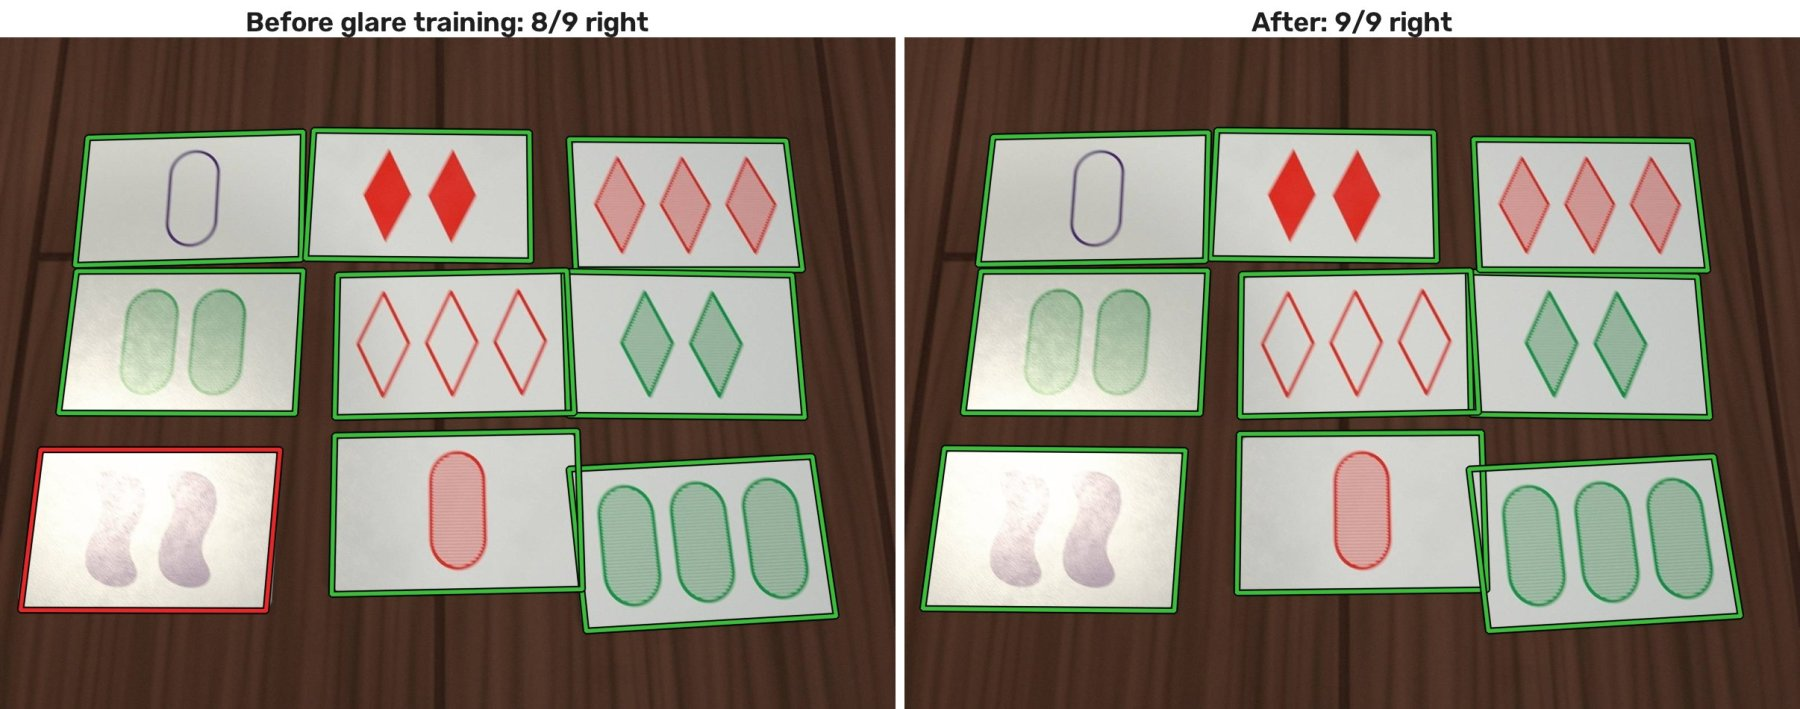
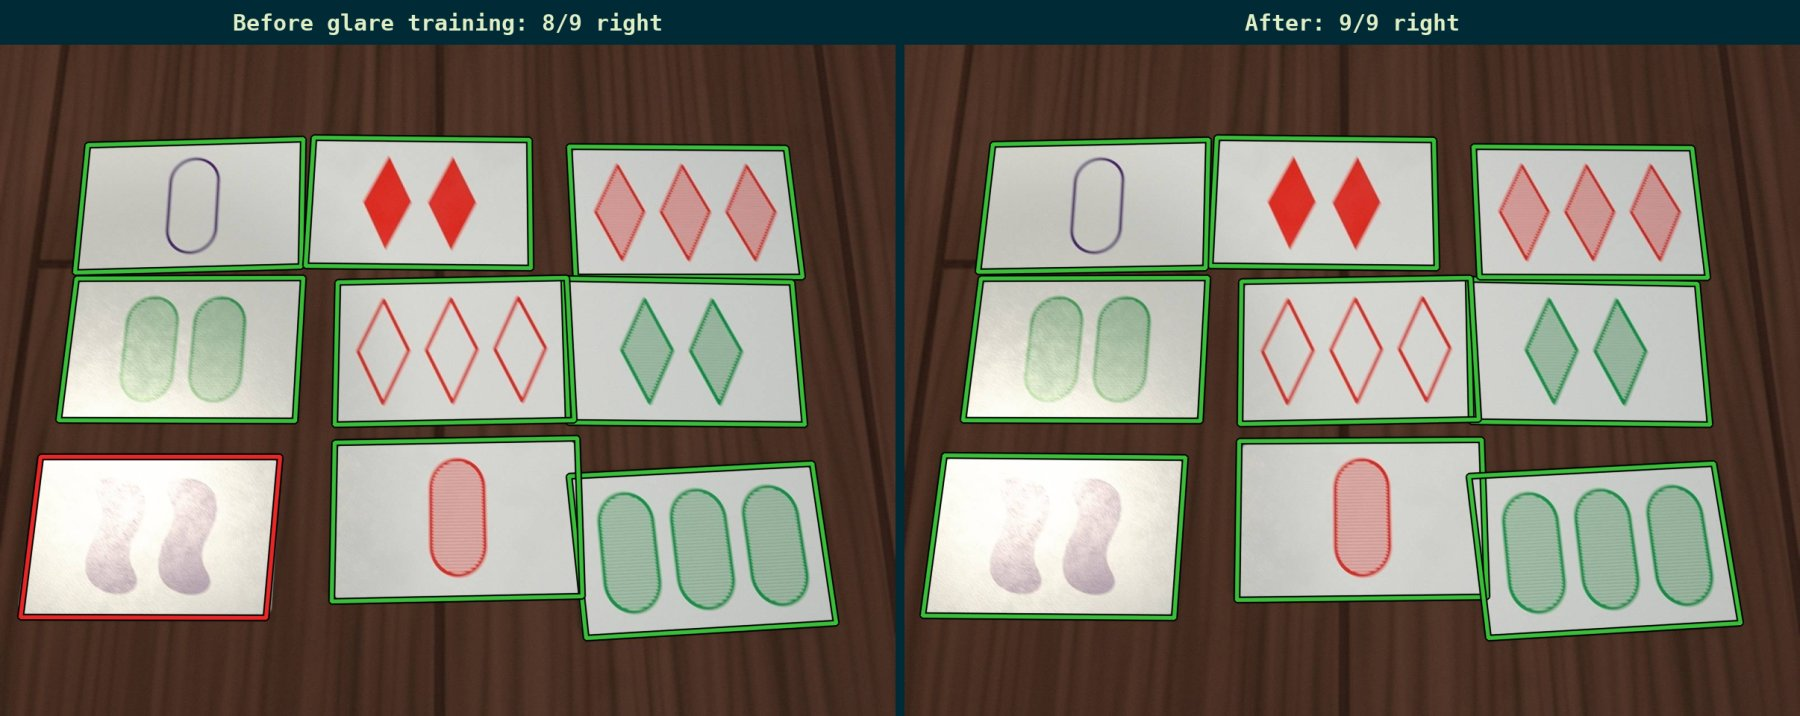
Make the SynthSetSolver post easier to read and match the site theme
- Post text in JetBrains Mono (loaded on post pages only) with line height
  1.8; the title keeps Courier New.
- Horizontal rules after the intro and under the two section headings.
- Figures and the chart re-rendered in the page colours (#002b36 / #E0EEC6)
  with monospace labels; images get slightly rounded corners.

diff --git a/_layouts/default.html b/_layouts/default.html
@@ -3,6 +3,11 @@
 <head>
 <script src="https://kit.fontawesome.com/6644c981c5.js" crossorigin="anonymous"></script>
 <link rel="stylesheet" href="/assets/css/styles.css">
+{% if page.layout == "post" %}
+<link rel="preconnect" href="https://fonts.googleapis.com">
+<link rel="preconnect" href="https://fonts.gstatic.com" crossorigin>
+<link rel="stylesheet" href="https://fonts.googleapis.com/css2?family=JetBrains+Mono:ital,wght@0,400;0,700;1,400&display=swap">
+{% endif %}
 <title>Makarios Chung</title>
 </head>
   

diff --git a/_sass/main.scss b/_sass/main.scss
@@ -131,6 +131,7 @@ html {
   width: 60vw;
   max-width: none;
   margin: 3vh -10vw 0;
+  border-radius: 6px;
 }
 
 .listing .caption {
@@ -145,4 +146,14 @@ html {
     width: 100%;
     margin: 3vh 0 0;
   }
+}
+
+/* post text: JetBrains Mono reads more easily than Courier New in long paragraphs; the title keeps the site's Courier */
+.post {
+  font-family: "JetBrains Mono", "Courier New", monospace;
+  line-height: 1.8;
+}
+
+.post h1 {
+  font-family: "Courier New", monospace;
 }

diff --git a/_layouts/post.html b/_layouts/post.html
@@ -2,7 +2,7 @@
 layout: default 
 ---
 
-<div class="listing">
+<div class="listing post">
 <h1>{{ page.title }}</h1>
 <hr>
 {{ content }}

diff --git a/_posts/2026-11-10-synthsetsolver.md b/_posts/2026-11-10-synthsetsolver.md
@@ -12,6 +12,8 @@ Try it! [https://makariosc.github.io/setsolver](https://makariosc.github.io/sets
 
 I used Claude to create a synthetic data generator that renders Set cards on different surfaces with lighting glare, shadows, and a variety of augmentations, backgrounds and distractors. The result? A Set detector that works better than any other open-source alternative I could find on the internet.
 
+---
+
 I once tried creating a Set card detector using classical CV methods. After wasting a week messing around with Otsu thresholding, Canny edge detection, and all manner of pixel value normalizations, I ended up with a half-baked card detector that worked under nominal conditions, but was temperamental and prone to breaking.
 
 ![Classical CV pipeline on a neat table and on a close-up](/assets/synthsetsolver/classical-cv.jpg)
@@ -41,6 +43,8 @@ _Before and after adding steep camera angles, on a held-out synthetic scene shot
 {: .caption}
 
 ## Evaluation and Model Comparisons
+
+---
 
 Naturally, since the training and testing data are both created from the same scene generator, the pipeline scores 99.9% accuracy on the held-out synthetic data.
 
@@ -76,5 +80,7 @@ _Share of cards found and read correctly by each detector, on my real test photo
 {: .caption}
 
 ## Conclusions
+
+---
 
 I understand that this isn't much more than a toy example, especially when compared to the recent slew of vibe-mathed solutions to decades-old problems (Set cards are rather distinct, after all, and very regular in appearance). However, the ability to use AI, and AI generated tools, to achieve such results in less than a week on even just a toy example is very encouraging. I'm excited to continue playing with these new tools to see what I can learn with them.
